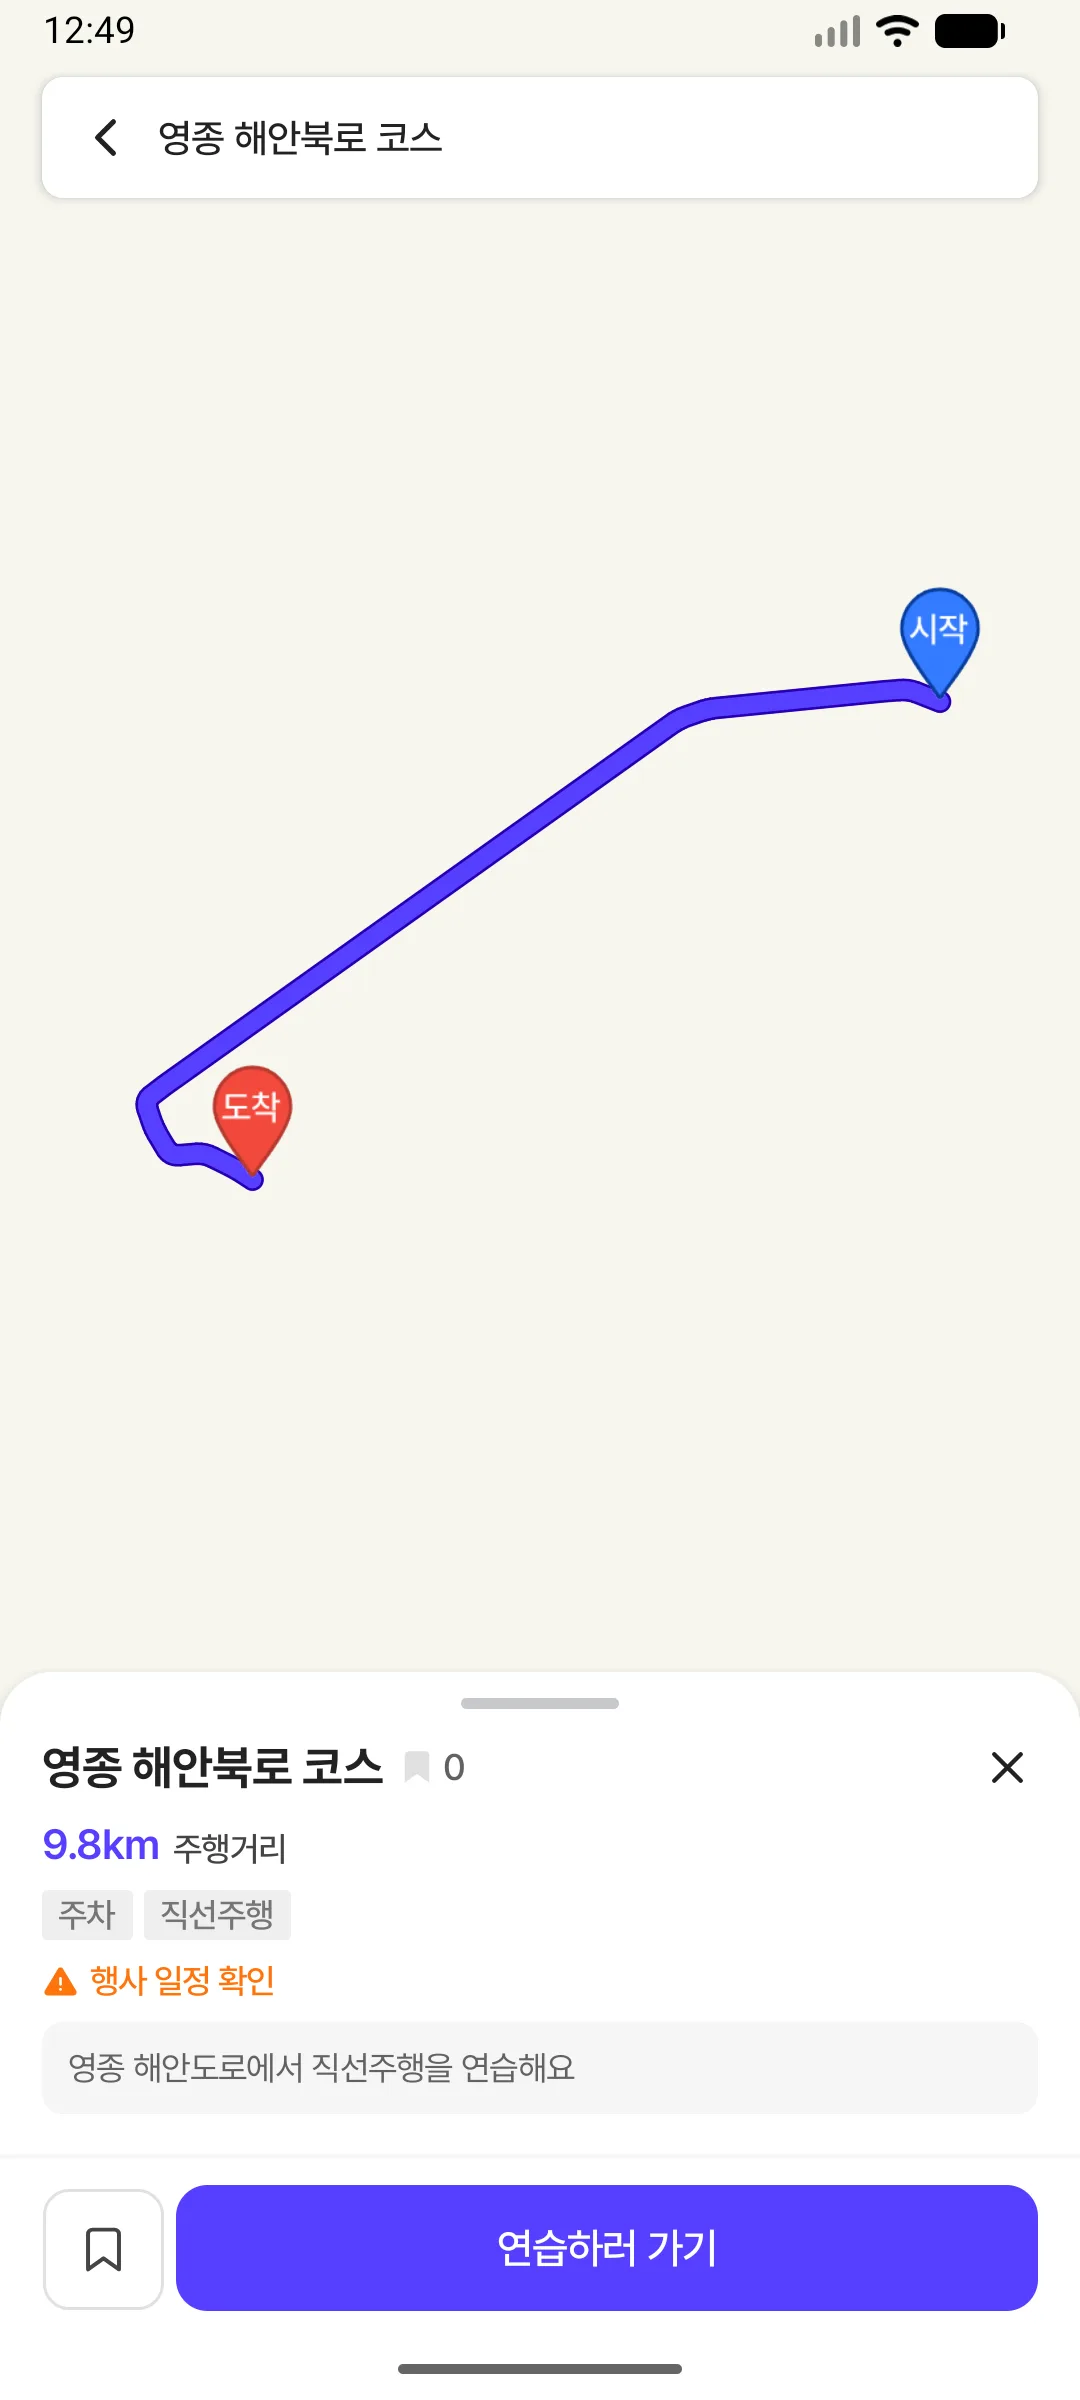
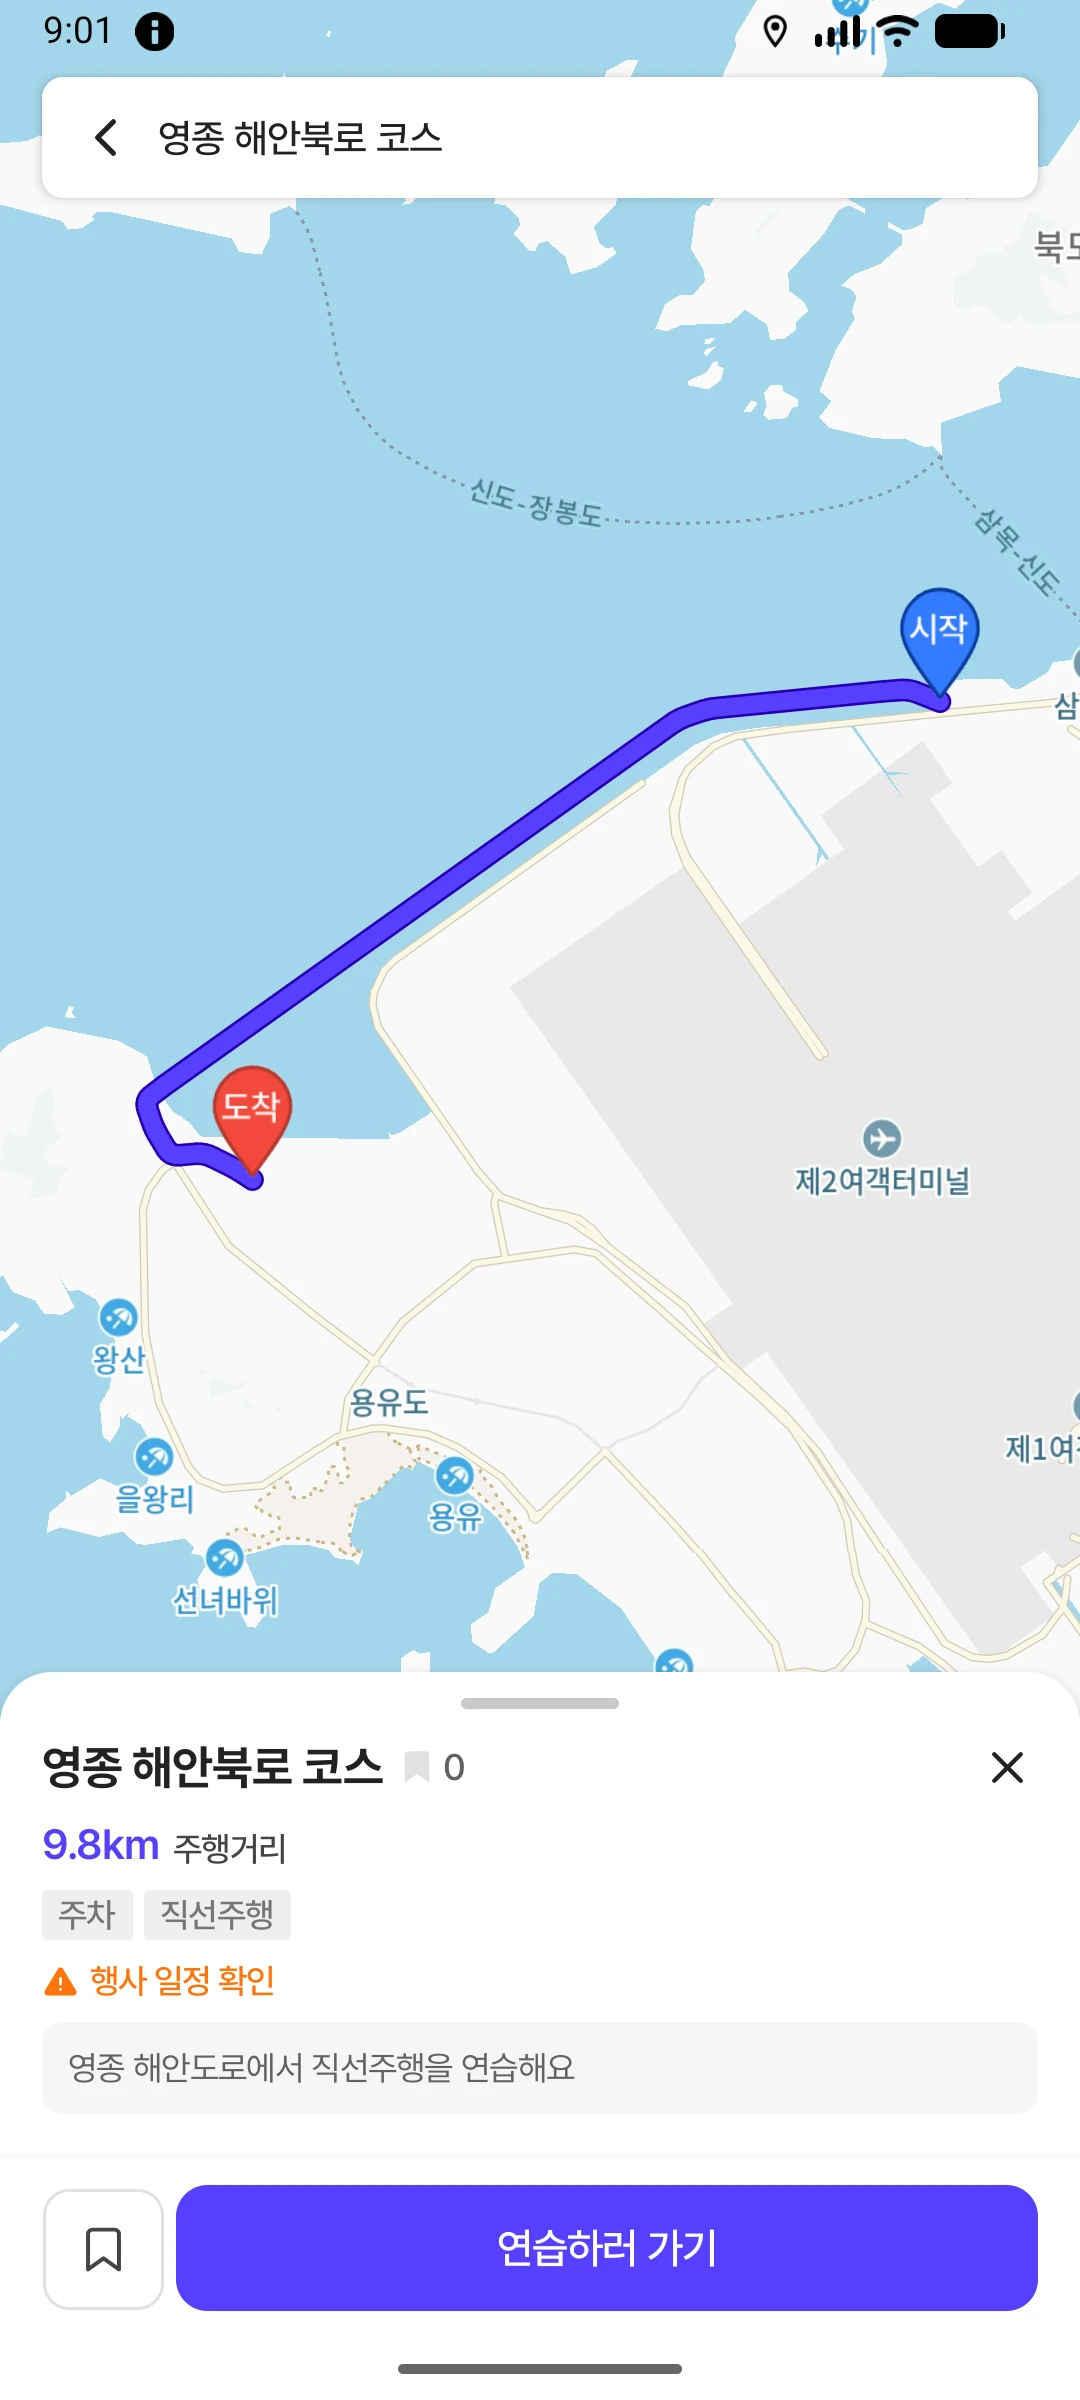
[fix] 필드 테스트 빌드 — 도착 알림 라우팅·트래킹 경합 수정·README 스크린샷 교체 (#113)
* wip(app): 운전 도착 알림 탭 시 홈 화면 라우팅 (기기 검증 대기)

구현은 스펙대로 완료, assembleDebug/lint 통과. 기기 검증(cold/warm start
인텐트 확인)이 아직 안 돼 리뷰 보류 상태 — docs/handoff/archive/
20260831-2231-HANDOFF-blocked.md 참고.

* fix(driving): DrivingTrackingService 시작/종료 명령을 채널로 직렬화해 세션 저장 경합 제거

ACTION_START의 세션 저장(startDrivingSession)과 ACTION_STOP의 세션 삭제
(endDrivingSession)가 각각 독립된 코루틴으로 launch되면서 실행 순서가
보장되지 않았다. STOP이 먼저 처리되면 지울 게 없어 clear가 아무 일도 안
하고, 뒤늦게 완료되는 START의 저장이 이미 종료 처리된 세션 자리에 ACTIVE
상태를 다시 써버릴 수 있었다.

onStartCommand()는 이제 명령을 Channel로 넘기기만 하고, onCreate()에서
시작하는 단일 소비자 코루틴이 도착 순서대로 하나씩 처리한다.
startDrivingSession()을 이 소비자 코루틴 안에서 직접 기다리도록 옮겨서,
뒤이어 도착한 STOP의 finishSession()은 항상 그 저장이 끝난 뒤에만
실행되도록 구조적으로 보장했다. 위치 수집(collectLocations)만 별도
trackingJob으로 계속 실행한다 — 안 그러면 STOP 처리가 위치 수집이 끝날
때까지 막혀버린다.

* docs(readme): 코스 상세 스크린샷 지도 미로딩 상태 재캡처

지도 타일이 로드되기 전에 캡처된 기존 이미지를 완전히 로드된 화면으로 교체

* fix(driving): CodeRabbit 지적 3건 반영 — foreground 승격 지연·도착 처리 경합·도착 알림 재처리

- ACTION_START 처리 시 세션 파싱·권한 체크·startForeground 호출을 onStartCommand에서
  동기적으로 끝내도록 옮겨, 커맨드 채널 소비 지연으로 인한
  ForegroundServiceDidNotStartInTimeException 위험 제거
- 위치 수집 코루틴에서 도착 감지 시 handleArrival을 직접 호출하던 것을
  Command.Arrive로 커맨드 채널에 태워 단일 소비자 코루틴에서 처리하도록 변경,
  handleStopCommand와의 isFinishing 체크-후-대입 경합 제거 (isFinishing도 @Volatile로)
- MainActivity: ACTION_OPEN_ARRIVAL 처리 후 intent.action을 비워, config change로
  Activity가 재생성돼도 같은 도착 이벤트가 재처리되지 않게 함
- MainScreen: 도착 이벤트를 일회성 최우선으로 취급해 pendingCourseRegistrationPreflight·
[…]

diff --git a/app/src/main/java/com/dororong/rodi/spike/driving/DrivingTrackingService.kt b/app/src/main/java/com/dororong/rodi/spike/driving/DrivingTrackingService.kt
@@ -35,6 +35,7 @@ import kotlinx.coroutines.Dispatchers
 import kotlinx.coroutines.Job
 import kotlinx.coroutines.SupervisorJob
 import kotlinx.coroutines.cancel
+import kotlinx.coroutines.channels.Channel
 import kotlinx.coroutines.flow.collect
 import kotlinx.coroutines.launch
 import timber.log.Timber
@@ -50,6 +51,14 @@ private const val MIN_RECOGNIZED_DISTANCE_METERS_FOR_ARRIVAL_FALLBACK = 50.0
 
 @AndroidEntryPoint
 internal class DrivingTrackingService : Service() {
+    private sealed interface Command {
+        data class Start(val session: DrivingSession) : Command
+        data class Stop(val sessionId: String?) : Command
+        data class Arrive(val session: DrivingSession, val traveledDistanceMeters: Double) : Command
+    }
+
+    private val commandChannel = Channel<Command>(Channel.UNLIMITED)
+
     @Inject lateinit var startDrivingSession: StartDrivingSessionUseCase
     @Inject lateinit var updateDrivingProgress: UpdateDrivingProgressUseCase
     @Inject lateinit var markDrivingArrived: MarkDrivingArrivedUseCase
@@ -60,9 +69,22 @@ internal class DrivingTrackingService : Service() {
     private val notificationManager by lazy { NotificationManagerCompat.from(this) }
     private var trackingJob: Job? = null
     private var activeSession: DrivingSession? = null
-    private var isFinishing = false
+    @Volatile private var isFinishing = false
 
     override fun onBind(intent: Intent?): IBinder? = null
+
+    override fun onCreate() {
+        super.onCreate()
+        serviceScope.launch {
+            for (command in commandChannel) {
+                when (command) {
+                    is Command.Start -> handleStartCommand(command.session)
+                    is Command.Stop -> handleStopCommand(command.sessionId)
+                    is Command.Arrive -> handleArrival(command.session, command.traveledDistanceMeters)
+                }
+            }
+        }
+    }
 
     override fun onStartCommand(
         intent: Intent?,
@@ -70,19 +92,19 @@ internal class DrivingTrackingService : Service() {
         startId: Int,
     ): Int {
         when (intent?.action) {
-            ACTION_START -> startTracking(intent)
-            ACTION_STOP -> stopTracking(intent.getStringExtra(EXTRA_SESSION_ID))
+            ACTION_START -> handleStartAction(intent)
+            ACTION_STOP -> commandChannel.trySend(Command.Stop(intent.getStringExtra(EXTRA_SESSION_ID)))
         }
         return START_NOT_STICKY
     }
 
-    override fun onDestroy() {
-        trackingJob?.cancel()
-        serviceScope.cancel()
-        super.onDestroy()
-    }
-
-    private fun startTracking(intent: Intent) {
+    /**
+     * startForegroundService()로 시작된 서비스는 시스템 제한 시간(약 5초) 안에
+     * startForeground()를 호출해야 한다. 세션 파싱·권한 체크와 startForeground 호출을
+     * 커맨드 채널의 비동기 소비자로 미루면 그 지연만으로 ForegroundServiceDidNotStartInTimeException이
+     * 날 수 있어, 이 검증·승격은 onStartCommand에서 동기적으로 끝낸다.
+     */
+    private fun handleStartAction(intent: Intent) {
         if (activeSession != null || isFinishing) return
         val session = intent.toDrivingSession() ?: run {
             stopSelf()
@@ -108,9 +130,28 @@ internal class DrivingTrackingService : Service() {
             stopSelf()
             return
         }
+        commandChannel.trySend(Command.Start(session))
+    }
+
+    override fun onDestroy() {
+        trackingJob?.cancel()
+        commandChannel.close()
+        serviceScope.cancel()
+        super.onDestroy()
+    }
+
+    private suspend fun handleStartCommand(session: DrivingSession) {
+        try {
+            startDrivingSession(session)
+        } catch (error: CancellationException) {
+            throw error
+        } catch (error: Throwable) {
+            Timber.e(error, "Driving tracking stopped unexpectedly.")
+            finishSession(session.id, removeNotification = true, clearSession = true)
+            return
+        }
         trackingJob = serviceScope.launch {
             try {
-                startDrivingSession(session)
                 collectLocations(session)
             } catch (error: CancellationException) {
                 throw error
@@ -170,7 +211,8 @@ internal class DrivingTrackingService : Service() {
                 hasArrived = destinationArrival.hasArrived
             }
             if (hasArrived) {
-                handleArrival(session, progress.recognizedDistanceMeters)
+                commandChannel.trySend(Command.Arrive(session, progress.recognizedDistanceMeters))
+                trackingJob?.cancel()
                 return@collect
             }
             val now = SystemClock.elapsedRealtime()
@@ -208,7 +250,8 @@ internal class DrivingTrackingService : Service() {
             )
             consecutiveMatches = arrival.consecutiveMatches
             if (arrival.hasArrived) {
-                handleArrival(session, traveledDistance)
+                commandChannel.trySend(Command.Arrive(session, traveledDistance))
+                trackingJob?.cancel()
                 return@collect
             }
             val now = SystemClock.elapsedRealtime()
@@ -270,7 +313,7 @@ internal class DrivingTrackingService : Service() {
         }
     }
 
-    private fun stopTracking(sessionId: String?) {
+    private suspend fun handleStopCommand(sessionId: String?) {
         val active = activeSession ?: run {
             stopSelf()
             return
@@ -278,9 +321,7 @@ internal class DrivingTrackingService : Service() {
         if (sessionId != null && sessionId != active.id) return
         if (isFinishing) return
         isFinishing = true
-        serviceScope.launch {
-            finishSession(active.id, removeNotification = true, clearSession = true)
-        }
+        finishSession(active.id, removeNotification = true, clearSession = true)
     }
 
     private suspend fun finishSession(

diff --git a/app/src/main/java/com/dororong/rodi/ui/MainScreen.kt b/app/src/main/java/com/dororong/rodi/ui/MainScreen.kt
@@ -65,6 +65,8 @@ fun MainScreen(
     onLoginRequired: () -> Unit = {},
     openCourseRegistrationOnStart: Boolean = false,
     onCourseRegistrationOpened: () -> Unit = {},
+    openArrivalOnStart: Boolean = false,
+    onArrivalHandled: () -> Unit = {},
     courseRegistrationEntryModeOnStart: CourseRegistrationEntryMode = CourseRegistrationEntryMode.Normal,
     onCourseRegistrationLoginRequired: ((CourseRegistrationEntryMode) -> Unit)? = null,
 ) {
@@ -93,14 +95,29 @@ fun MainScreen(
         pendingCourseRegistrationPreflight = true
     }
 
+    LaunchedEffect(openArrivalOnStart) {
+        if (openArrivalOnStart) {
+            // 도착 알림은 일회성 최우선 이벤트다 — 코스 등록 재개 흐름이 같은 프레임에
+            // 함께 활성화돼 있어도 여기서 정리해 HomeRoute 전환 뒤 복원 다이얼로그나
+            // 등록 화면이 따라 열리지 않게 한다.
+            pendingCourseRegistrationPreflight = false
+            showResumeDialog = false
+            if (backStack.lastOrNull() != HomeRoute) {
+                backStack.clear()
+                backStack.add(HomeRoute)
+            }
+            onArrivalHandled()
+        }
+    }
+
     LaunchedEffect(openCourseRegistrationOnStart, courseRegistrationEntryModeOnStart) {
-        if (openCourseRegistrationOnStart) {
+        if (openCourseRegistrationOnStart && !openArrivalOnStart) {
             courseRegistrationEntryMode = courseRegistrationEntryModeOnStart
             requestCourseRegistration()
         }
     }
     LaunchedEffect(pendingCourseRegistrationPreflight, entryState) {
-        if (!pendingCourseRegistrationPreflight) return@LaunchedEffect
+        if (!pendingCourseRegistrationPreflight || openArrivalOnStart) return@LaunchedEffect
         val readyState = entryState as? CourseRegistrationEntryState.Ready ?: return@LaunchedEffect
         pendingCourseRegistrationPreflight = false
         when (readyState.draft.courseRegistrationPreflightDecision()) {

diff --git a/app/src/main/java/com/dororong/rodi/MainActivity.kt b/app/src/main/java/com/dororong/rodi/MainActivity.kt
@@ -1,27 +1,48 @@
 package com.dororong.rodi
 
+import android.content.Intent
 import android.graphics.Color
 import android.os.Bundle
 import androidx.activity.ComponentActivity
 import androidx.activity.SystemBarStyle
 import androidx.activity.compose.setContent
 import androidx.activity.enableEdgeToEdge
+import androidx.compose.runtime.mutableStateOf
 import com.dororong.rodi.core.ui.theme.RodiTheme
+import com.dororong.rodi.spike.driving.DrivingTrackingService
 import com.dororong.rodi.ui.RodiApp
 import dagger.hilt.android.AndroidEntryPoint
 
 @AndroidEntryPoint
 class MainActivity : ComponentActivity() {
+    private val openDrivingArrival = mutableStateOf(false)
+
     override fun onCreate(savedInstanceState: Bundle?) {
         super.onCreate(savedInstanceState)
         enableEdgeToEdge(
             statusBarStyle = SystemBarStyle.light(Color.TRANSPARENT, Color.TRANSPARENT),
             navigationBarStyle = SystemBarStyle.light(Color.TRANSPARENT, Color.TRANSPARENT),
         )
+        if (intent?.action == DrivingTrackingService.ACTION_OPEN_ARRIVAL) {
+            openDrivingArrival.value = true
+            intent?.action = null
+        }
         setContent {
             RodiTheme {
-                RodiApp()
+                RodiApp(
+                    openDrivingArrival = openDrivingArrival.value,
+                    onDrivingArrivalHandled = { openDrivingArrival.value = false },
+                )
             }
+        }
+    }
+
+    override fun onNewIntent(intent: Intent) {
+        super.onNewIntent(intent)
+        setIntent(intent)
+        if (intent.action == DrivingTrackingService.ACTION_OPEN_ARRIVAL) {
+            openDrivingArrival.value = true
+            intent.action = null
         }
     }
 }

diff --git a/app/src/main/java/com/dororong/rodi/ui/RodiApp.kt b/app/src/main/java/com/dororong/rodi/ui/RodiApp.kt
@@ -44,6 +44,8 @@ import kotlin.time.Duration.Companion.milliseconds
 @Composable
 fun RodiApp(
     viewModel: RodiAppViewModel = hiltViewModel(),
+    openDrivingArrival: Boolean = false,
+    onDrivingArrivalHandled: () -> Unit = {},
 ) {
     val state by viewModel.state.collectAsStateWithLifecycle()
     val lifecycleOwner = LocalLifecycleOwner.current
@@ -53,6 +55,14 @@ fun RodiApp(
     var resumeCourseRegistration by rememberSaveable { mutableStateOf(false) }
     var resumeCourseRegistrationEntryModeName by rememberSaveable {
         mutableStateOf(CourseRegistrationEntryMode.Normal.name)
+    }
+    var openArrivalOnStart by rememberSaveable { mutableStateOf(false) }
+
+    LaunchedEffect(openDrivingArrival) {
+        if (openDrivingArrival) {
+            openArrivalOnStart = true
+            onDrivingArrivalHandled()
+        }
     }
 
     CollectEffect(viewModel.effect) { effect ->
@@ -156,6 +166,8 @@ fun RodiApp(
                             resumeCourseRegistration = false
                             resumeCourseRegistrationEntryModeName = CourseRegistrationEntryMode.Normal.name
                         },
+                        openArrivalOnStart = openArrivalOnStart,
+                        onArrivalHandled = { openArrivalOnStart = false },
                         onSessionEnded = {
                             viewModel.onSessionEnded()
                         },

diff --git a/core/data/src/test/java/com/dororong/rodi/core/data/repository/ReviewRepositoryImplTest.kt b/core/data/src/test/java/com/dororong/rodi/core/data/repository/ReviewRepositoryImplTest.kt
@@ -22,6 +22,7 @@ import io.mockk.coVerify
 import io.mockk.mockk
 import kotlinx.coroutines.test.runTest
 import org.junit.jupiter.api.Assertions.assertEquals
+import org.junit.jupiter.api.Assertions.assertSame
 import org.junit.jupiter.api.Test
 
 class ReviewRepositoryImplTest {
@@ -53,8 +54,8 @@ class ReviewRepositoryImplTest {
     @Test
     fun `unexpected transport error uses generic review message`() = runTest {
         val api = mockk<ReviewApi>()
-        coEvery { api.getReviews("Bearer access", 7, null, 10, null) } throws
-            IllegalStateException("Field 'totalCount' is required")
+        val cause = IllegalStateException("Field 'totalCount' is required")
+        coEvery { api.getReviews("Bearer access", 7, null, 10, null) } throws cause
         val repository = repository(api)
 
         val exception = assertThrowsSuspend<ReviewException.Unexpected> {
@@ -62,7 +63,7 @@ class ReviewRepositoryImplTest {
         }
 
         assertEquals("후기 요청에 실패했습니다.", exception.userMessage)
-        assertEquals("Field 'totalCount' is required", exception.cause?.message)
+        assertSame(cause, exception.cause)
     }
 
     @Test
